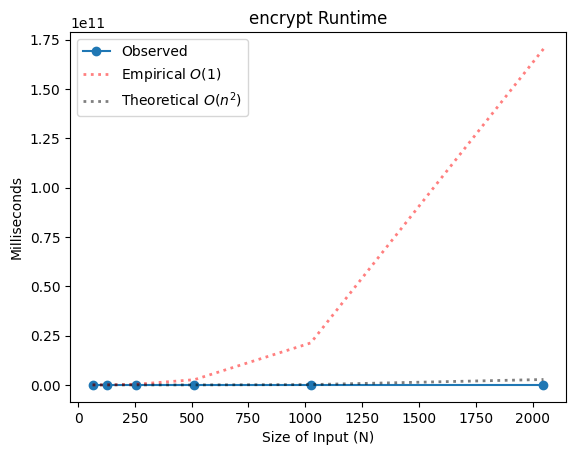
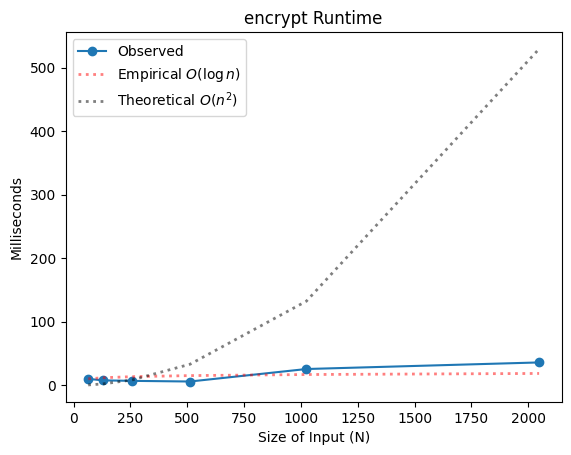
fix graph

diff --git a/project-rsa-submit_results.html b/project-rsa-submit_results.html
@@ -1,0 +1,223 @@
+<!DOCTYPE html>
+<html lang="en">
+<head>
+    <meta charset="UTF-8">
+    <meta name="viewport" content="width=device-width, initial-scale=1.0">
+    <title>Comparison Report</title>
+    <style>
+        html, body {
+            height: 100%;
+            margin: 0;
+        }
+        body {
+            flex-direction: column;
+            font-family: monospace, sans-serif;
+            line-height: 1.4;
+            background-color: #f9f9f9;
+            color: rgb(0, 46, 93);
+        }
+        .page-container {
+            display: flex;
+            flex-direction: column;
+            min-height: 100vh;
+        }
+        .main-content {
+            flex: 1;
+            display: flex;
+            flex-direction: column;
+        }
+        header, footer {
+            background-color: rgb(0, 46, 93);
+            color: white;
+            text-align: center;
+        }
+        header h1, footer p {
+            margin: 0;
+            padding: 5px 0;
+        }
+        header {
+            margin-bottom: 10px;
+        }
+        footer {
+            margin-top: 10px;
+        }
+        h2 {
+            padding: 5px 0;
+        }
+        .test-summary {
+            display: flex;
+            justify-content: space-between;
+            align-items: center;
+            margin: 10px 50px;
+            font-size: 1em;
+            font-weight: bold;
+        }
+        .content-wrapper {
+            display: flex;
+            flex-direction: column;
+        }
+        .test-result-passed, .test-result-failed {
+            padding: 5px;
+            border-radius: 5px;
+            margin: 10px 50px;
+            position: relative;
+        }
+        .test-result-passed {
+            background-color: #d4edda;
+            border: 2px solid #c3e6cb;
+        }
+        .test-result-failed {
+            background-color: #f8d7da;
+            border: 2px solid #f5c6cb;
+        }
+        .result-header {
+            text-align: center;
+        }
+        .result-header h2 {
+            margin: 0;
+            font-size: 1.2em;
+        }
+        .result-subheader {
+            display: flex;
+            justify-content: space-between;
+            align-items: center;
+            margin-top: 5px;
+            font-size: 1em;
+            padding: 0 10px;
+        }
+        .result-subheader .status, .result-subheader .score {
+            font-size: 1em;
+        }
+        .result-subheader .status h2, .result-subheader .score h2 {
+            display: inline;
+            font-size: 1em;
+            margin-right: 5px;
+        }
+        .comparison-container {
+            display: flex;
+            flex-direction: row;
+            justify-content: space-between;
+            gap: 10px;
+            margin-bottom: 10px;
+            padding: 0 10px;
+
+        }
+        @media (max-width: 1500px) {
+            .comparison-container {
+                flex-direction: column;
+            }
+        }
+        .section {
+            flex: 1;
+            min-width: 400px;
+        }
+        .section strong {
+            font-size: 1em;
+        }
+        .content {
+            background: rgb(245, 245, 245);
+            padding: 10px;
+            border: 1px solid #ddd;
+            border-radius: 3px;
+            overflow-x: auto;
+        }
+        .test-info {
+            margin: 5px 10px;
+        }
+    </style>
+</head>
+<body>
+    <div class="page-container">
+        <header>
+            <h1>Project Rsa Submit Results</h1>
+        </header>
+        <main class="main-content">
+            <div class="test-summary">
+                <span>Passed: 3 / 3</span>
+                <span>Total Score: 0 / 0</span>
+            </div>
+            
+            
+            <div class="test-result-passed">
+                <div class="content-wrapper">
+                    <div class="result-header">
+                        <h2>baseline</h2>
+                        <div class="result-subheader">
+                            <div class="status">
+                                <h2>Status:</h2> Passed
+                            </div>
+                            <div class="score">
+                                <h2>Score:</h2> 0 / 0
+                            </div>
+                        </div>
+                    </div>
+                    
+                    
+                        <div class="comparison-container-empty"></div>
+                    
+                    
+                    
+                        <div class="comparison-container-empty"></div>
+                    
+                    
+                    
+                        <div class="comparison-container-empty"></div>
+                    
+                    
+                </div>
+            </div>
+            
+            <div class="test-result-passed">
+                <div class="content-wrapper">
+                    <div class="result-header">
+                        <h2>core</h2>
+                        <div class="result-subheader">
+                            <div class="status">
+                                <h2>Status:</h2> Passed
+                            </div>
+                            <div class="score">
+                                <h2>Score:</h2> 0 / 0
+                            </div>
+                        </div>
+                    </div>
+                    
+                    
+                        <div class="comparison-container-empty"></div>
+                    
+                    
+                </div>
+            </div>
+            
+            <div class="test-result-passed">
+                <div class="content-wrapper">
+                    <div class="result-header">
+                        <h2>stretch2</h2>
+                        <div class="result-subheader">
+                            <div class="status">
+                                <h2>Status:</h2> Passed
+                            </div>
+                            <div class="score">
+                                <h2>Score:</h2> 0 / 0
+                            </div>
+                        </div>
+                    </div>
+                    
+                    
+                        <div class="comparison-container-empty"></div>
+                    
+                    
+                    
+                        <div class="comparison-container-empty"></div>
+                    
+                    
+                </div>
+            </div>
+            
+            
+        </main>
+        <footer>
+            <p>Generated by byu_pytest_utils on September 25, 2025 12:09 AM</p>
+        </footer>
+    </div>
+</body>
+</html>

diff --git a/rsa-project-report.md b/rsa-project-report.md
@@ -141,9 +141,10 @@ Encryption and decryption both have the same space complexity. We store a certai
 #### Encryption
 
 - Theoretical order of growth: $O(n^2)$
-- Measured constant of proportionality for theoretical order: 1.5625e-04
-- Empirical order of growth (if different from theoretical): $O(1)$
-- Measured constant of proportionality for empirical order: 1.9831e+01
+- Measured constant of proportionality for theoretical order: 1.2622e-04
+
+- Empirical order of growth (if different from theoretical): $O(\log n)$
+- Measured constant of proportionality for empirical order: 2.4350e+00
 
 ![Encrypt: Graph of theoretical vs empirical time complexity](encrypt-complexity-graph.png)
 
